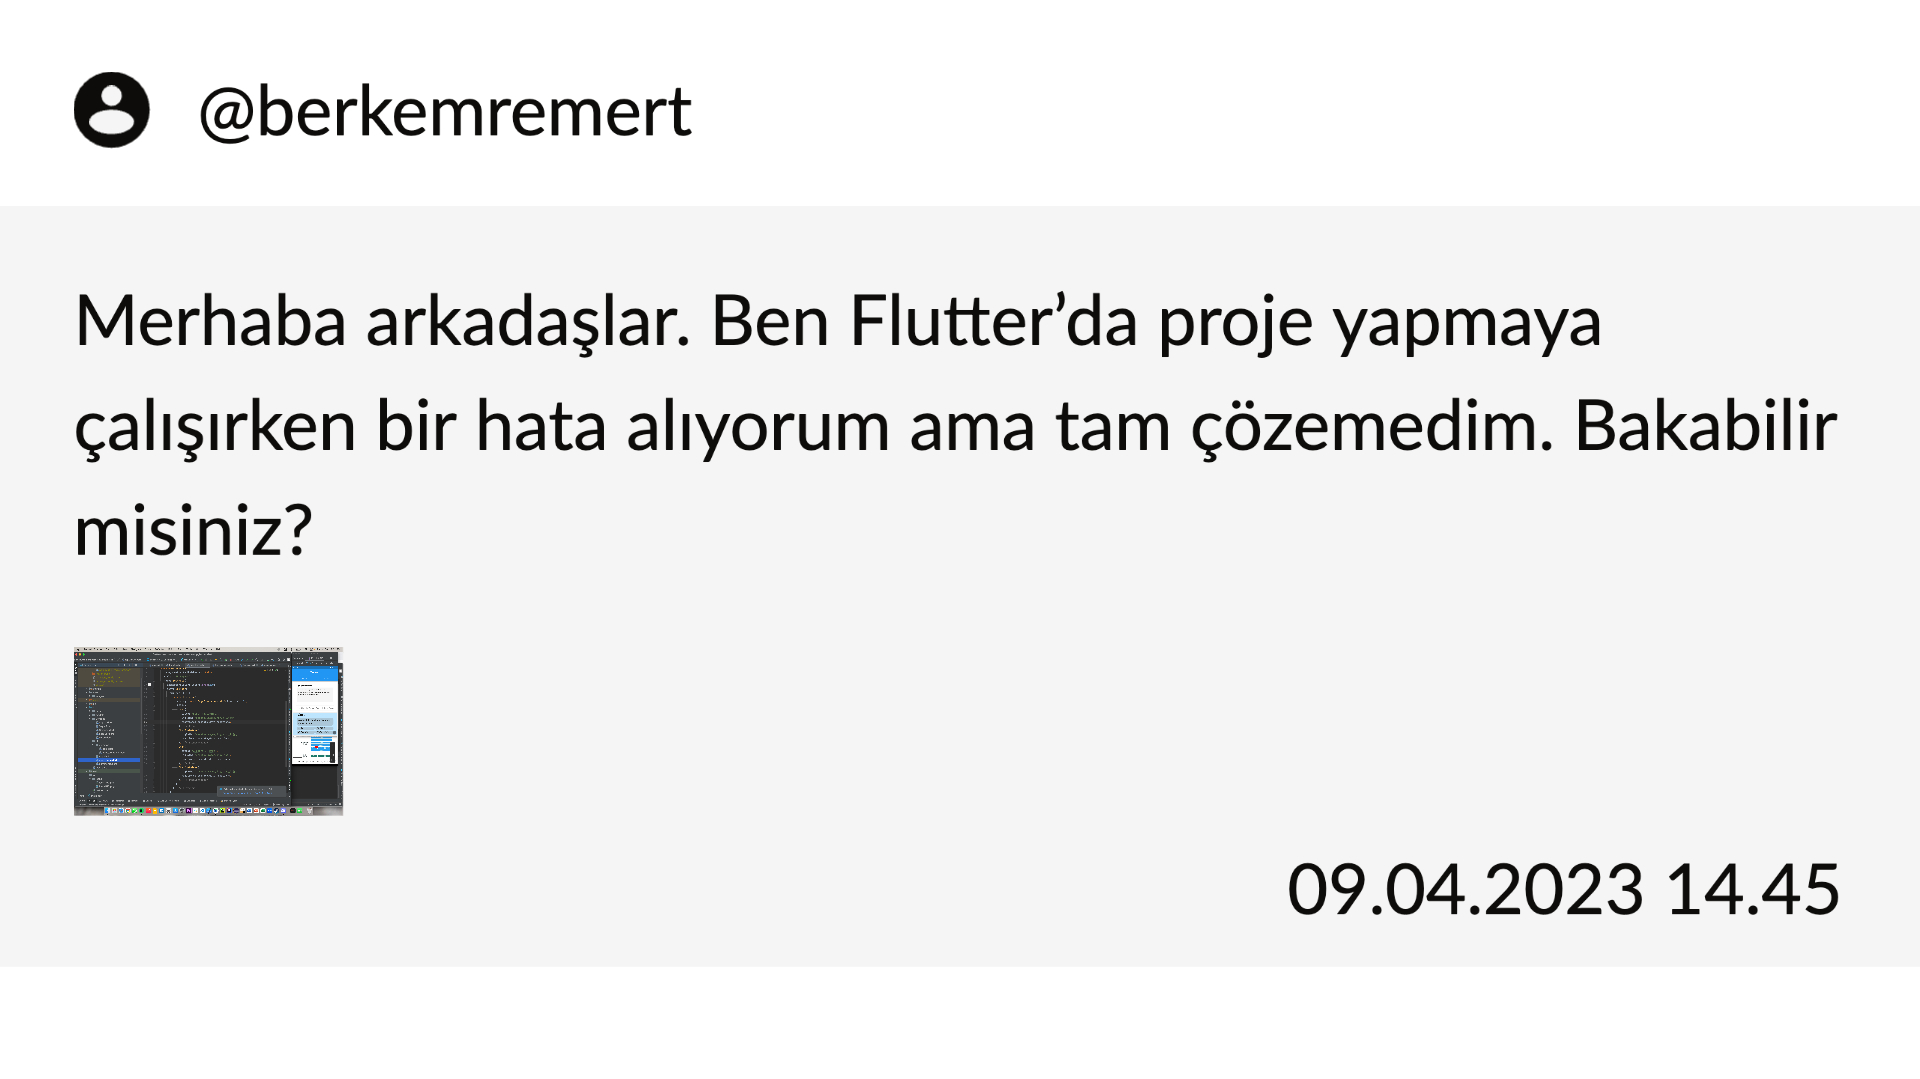
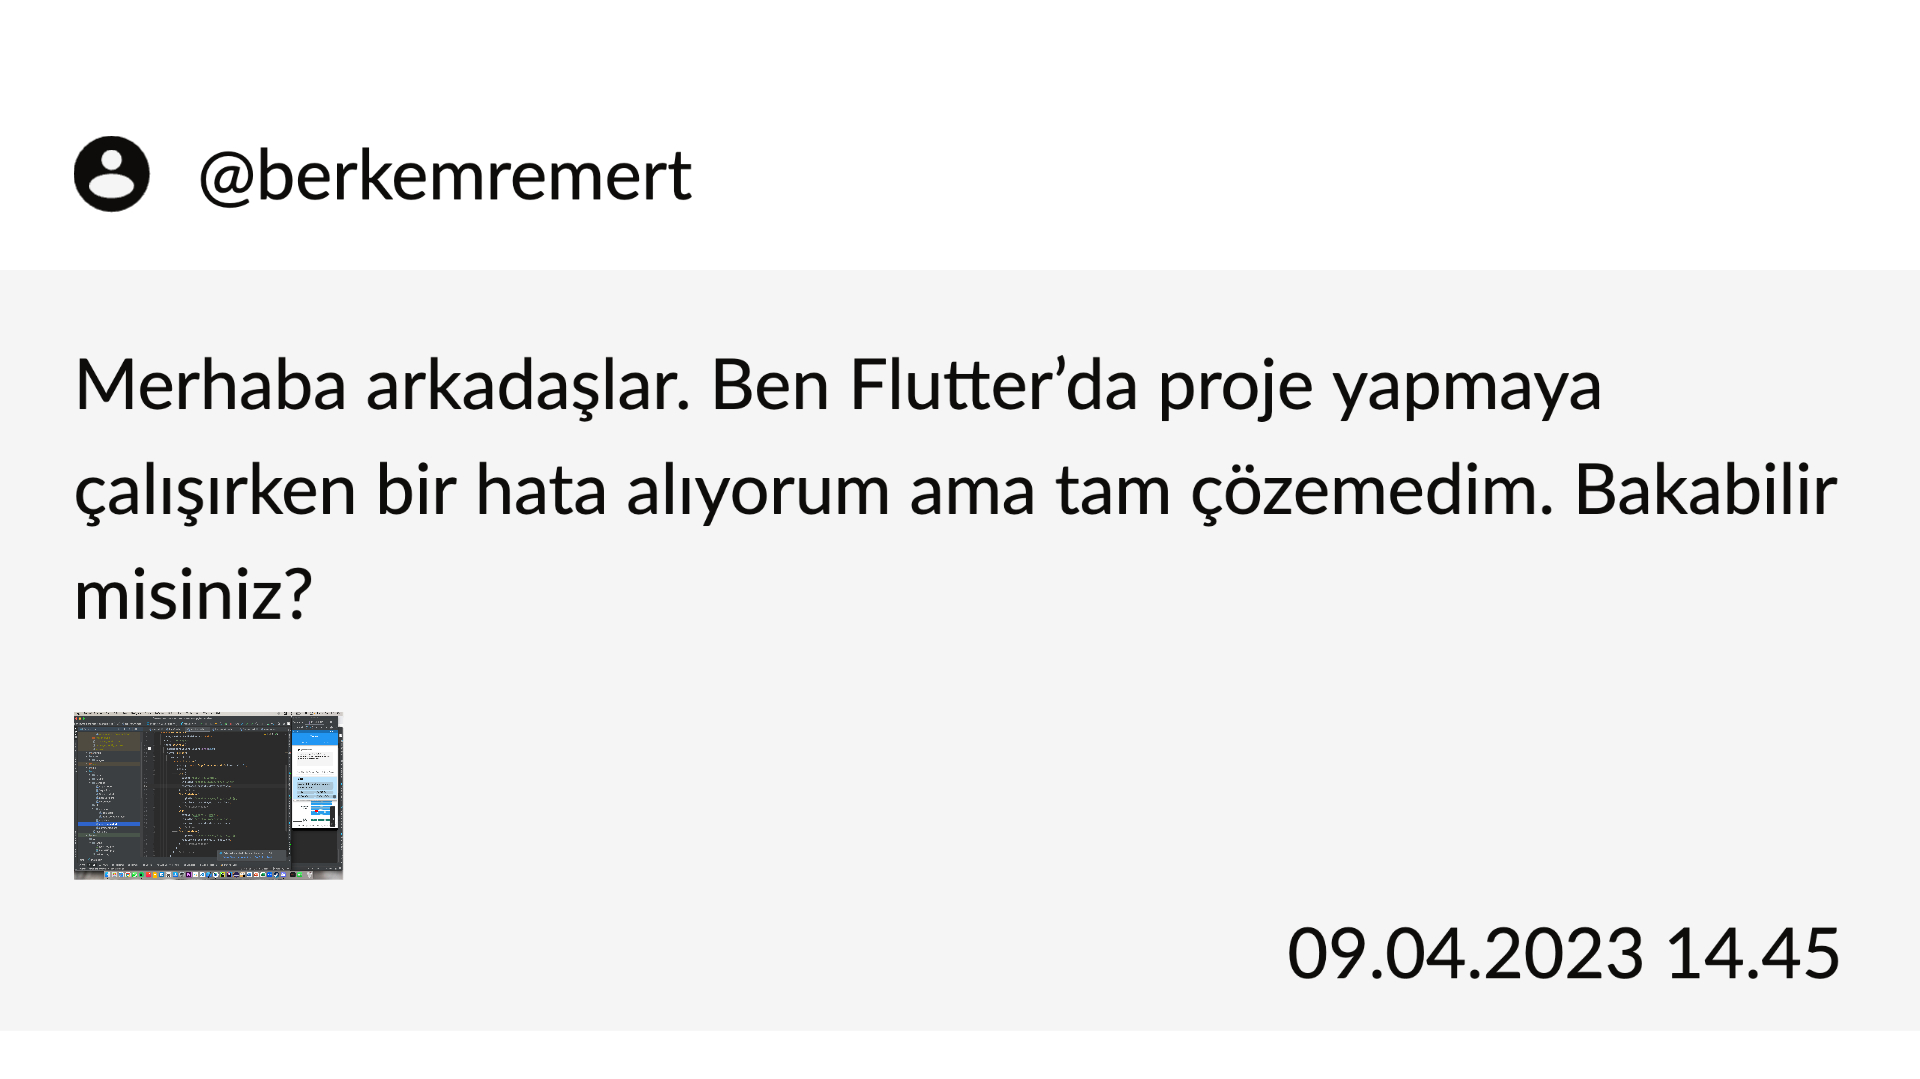
en sonuncusu

Changed region(s): [[0.0312, 0.2753, 0.9688, 0.8258], [0.6562, 0.7952, 0.9688, 0.9175], [0.0312, 0.0612, 0.375, 0.2141]]

diff --git a/example/lib/Screens/Screens.dart b/example/lib/Screens/Screens.dart
@@ -25,8 +25,8 @@ class _ScreensState extends State<Screens> {
             centerTitle: true,
             bottom: const TabBar(
               tabs: [
-              Tab(text: 'Ek Kaynak'),
               Tab(text: 'Forum'),
+              Tab(text: 'Ek Kaynak'),
             ],
                indicatorColor:Colors.orange ,
               indicatorSize: TabBarIndicatorSize.label ,
@@ -47,15 +47,8 @@ class _ScreensState extends State<Screens> {
               ),
             ],
           ),
-            floatingActionButton: FloatingActionButton(
-              backgroundColor: Colors.white,
-                onPressed: (){
-                Navigator.push(context,
-                MaterialPageRoute(builder: (context) => SoruSor()));
-                },
-            ),
           body: TabBarView(children: [
-            Sayfa1(), Sayfa2(),
+            Sayfa2(), Sayfa1(),
           ],)
         ));
   }

diff --git a/example/lib/ui/app_forum.dart b/example/lib/ui/app_forum.dart
@@ -27,8 +27,13 @@ class AppWidget_forum extends StatelessWidget {
                   reactions: example_data.reactions,
                 ),
                 Item_forum(
-                  title: 'Akademi 2. Ders',
-                  imgPath: 'assets/images/forum_1.jpg',
+                  title: 'Forum Paylaşım 2',
+                  imgPath: 'assets/images/forum_2.jpg',
+                  reactions: example_data.reactions,
+                ),
+                Item_forum(
+                  title: 'Forum Paylaşım 3',
+                  imgPath: 'assets/images/forum_3.jpg',
                   reactions: example_data.reactions,
                 ),
               ],
